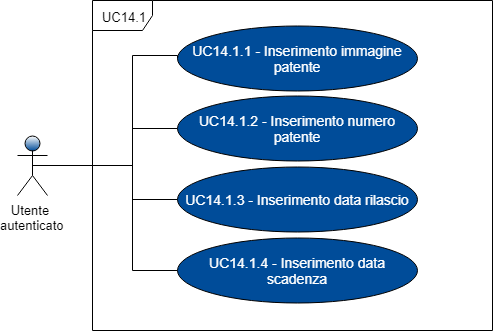
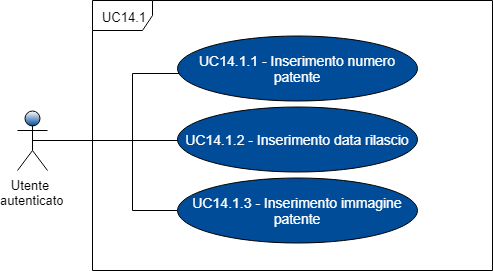
fix adr e pdq

diff --git a/RR/Esterni/Piano_di_qualifica/res/sections/specifica_dei_test.tex b/RR/Esterni/Piano_di_qualifica/res/sections/specifica_dei_test.tex
@@ -227,10 +227,10 @@ dove:
 		 \end{itemize}	&	NI	\tabularnewline
 		 \texttt{TA10.1.1}	& RFO9.1 & L'utente autenticato deve poter aggiornare la patente di guida del proprio account. All'utente viene chiesto di:
 		 \begin{itemize}
-		 	\item verificare di poter inserire l'immagine fronte e retro della patente;
 		 	\item verificare di poter inserire il numero della patente;
 		 	\item verificare di poter inserire la data di rilascio della patente;
 		 	\item verificare di poter inserire la data di scadenza della patente;
+		 	\item verificare di poter inserire l'immagine fronte e retro della patente;
 		 	\item verificare che i dati inseriti siano stati aggiornati nella schermata di gestione del profilo.
 		 \end{itemize}	&	NI	\tabularnewline
 		\texttt{TA10.1.2}	& RFO9.2.8 &	L'utente autenticato deve poter aggiornare la password del proprio account. All'utente viene chiesto di:
@@ -304,20 +304,20 @@ dove:
 		 	\item verificare che dal menu dell'applicazione si possa accedere e visualizzare la tabella dei Daily Rewards.
 		 \end{itemize}	&	NI	\tabularnewline	
 	
-	 \texttt{TA17.1}	& RFF15.1 &	L'utente autenticato deve poter ritirare il premio del giorno corrente dalla tabella Daily rewards. All'utente viene chiesto di :
+	 \texttt{TA17.1}	& RFF15.1 &	L'utente autenticato deve poter ritirare il premio del giorno corrente dalla tabella Daily rewards. \\All'utente viene chiesto di:
 		 \begin{itemize}
-		 	\item ritirare il premio del giorno dalla tabella dei premi giornalieri;
+		 	\item ritirare il premio del giorno dalla tabella dei premi giornalieri tramite l'apposito pulsante "Ritira premio";
 		 	\item verificare di non poter ritirare di nuovo il premio del giorno attuale;
 		 	\item verificare di non poter ritirare il premio dei giorni successivi o di quelli precedenti.
 		 \end{itemize}	&	NI	\tabularnewline
 
-	 \texttt{TA18}	& RFF16 &	L'utente autenticato deve poter accedere al Minigioco del garage in cui potrà visualizzare e apportare nuove modifiche ad un'auto base di partenza. All'utente viene chiesto di:
+	 \texttt{TA18}	& RFF16 &	L'utente autenticato deve poter accedere al Minigioco che consiste in un garage che dà la possibilità di effettuare modifiche ad un'auto. All'utente viene chiesto di:
 		 \begin{itemize}
 		 	\item accedere alla sezione Minigioco dal menu dell'applicazione;
 		 	\item verificare di poter visualizzare l'auto base e le sue statistiche (velocità, accelerazione, peso, maneggevolezza);
 		 	\item verificare di poter entrare nella modalità di modifica auto;
 		 	\item apportare qualche modifica;
-		 	\item verificare di poter installare o annullare le modifiche fatte.
+		 	\item verificare che le modifiche siano state effettivamente installate.
 		 \end{itemize}	&	NI	\tabularnewline
 	\texttt{TA18.1}	& RFF16.1\\ RFF16.1.1 \\ RFF16.1.2 \\ RFF16.1.3 \\ RFF16.1.4 \\ RFF16.1.5  \\RFF16.3  &	L'utente autenticato deve poter accedere al Minigioco del garage in cui potrà modificare le prestazioni dell'auto base. All'utente viene chiesto di:
 		 \begin{itemize}
@@ -330,7 +330,7 @@ dove:
 		 			\item sospensioni;
 		 			\item gomme.
 		 		\end{itemize}
-		 	\item confermare o annullare l'installazione delle modifiche.
+		 	\item confermare l'installazione della modifica.
 		 \end{itemize}	&	NI	\tabularnewline
 		 \texttt{TA18.2}	& RFF16.2\\ RFF16.2.1 \\ RFF16.2.2 \\ RFF16.2.3 \\ RFF16.2.4 \\ RFF16.2.5  \\ 	RFF16.2.6 \\ RFF16.2.7 \\RFF16.3 & L'utente autenticato deve poter accedere al Minigioco del garage in cui potrà modificare l'estetica dell'auto base. All'utente viene chiesto di:
 		 \begin{itemize}
@@ -345,9 +345,10 @@ dove:
 		 			\item cerchioni;
 		 			\item alettoni.
 		 		\end{itemize}
-		 	\item confermare o annullare l'installazione delle modifiche.
+		 	\item confermare l'installazione della modifica.
 		 \end{itemize}	&	NI	\tabularnewline
 \end{longtable}
+\newpage
 \subsection{Test di sistema}
 I test di sistema sono impiegati per garantire il corretto funzionamento delle componenti dell'intero sistema. Tali test verranno indicati nel seguente modo:\\
 	\centerline{\textbf{TS[Codice]}}
@@ -470,7 +471,7 @@ dove:
 	
 	 \texttt{TS17.1}	& RFF15.1 &	Verificare che il sistema permetta all'utente autenticato all'utente autenticato di poter ritirare il premio del giorno corrente dalla tabella Daily rewards. 	&	NI	\tabularnewline
 
-	 \texttt{TS18}	& RFF16 &	Verificare che il sistema permetta all'utente autenticato all'utente autenticato di poter accedere al Minigioco del garage in cui potrà visualizzare le statistiche e apportare nuove modifiche ad un'auto base di partenza. &	NI	\tabularnewline
+	 \texttt{TS18}	& RFF16 &	Verificare che il sistema permetta agli utenti autenticati di poter accedere al Minigioco che consiste in un garage che dà la possibilità di effettuare modifiche ad un'auto. &	NI	\tabularnewline
 	 
 	\texttt{TS18.1}	& RFF16.1\\ RFF16.1.1 \\ RFF16.1.2 \\ RFF16.1.3 \\ RFF16.1.4 \\ RFF16.1.5  \\RFF16.3  &	Verificare che il sistema permetta all'utente autenticato all'utente autenticato di poter accedere al Minigioco del garage in cui potrà modificare le prestazioni dell'auto base. 	&	NI	\tabularnewline
 	

diff --git a/RR/Esterni/Analisi_dei_requisiti/res/sections/UC/UC14-15-GestioneProfilo.tex b/RR/Esterni/Analisi_dei_requisiti/res/sections/UC/UC14-15-GestioneProfilo.tex
@@ -28,11 +28,6 @@
 	\caption{UC14 - Gestione Profilo}
 \end{figure}
 \subsubsection{UC14.1 - Inserimento patente}
-\begin{figure}[h]
-	\includegraphics[width=10cm]{res/images/UC14-Patente.png}
-	\centering
-	\caption{UC14.1 - Inserimento patente}
-\end{figure}
 \begin{itemize}
 	\item \textbf{Attori Primari}: utente autenticato;
 	\item \textbf{Descrizione}: l'utente può aggiungere la propria patente al profilo;
@@ -46,16 +41,13 @@
 	\item \textbf{Precondizione}: l'utente ha inserito correttamente tutti i campi necessari;
 	\item \textbf{Postcondizione}: la patente viene aggiunta e visualizzata nella pagina \textit{Gestione Profilo}.
 \end{itemize}
+\begin{figure}[h]
+	\includegraphics[width=10cm]{res/images/UC14-Patente.png}
+	\centering
+	\caption{UC14.1 - Inserimento patente}
+\end{figure}
 \newpage
-\subsubsection{UC14.1.1 - Inserimento immagine patente}
-\begin{itemize}
-	\item \textbf{Attori Primari}: utente autenticato;
-	\item \textbf{Descrizione}: al fine di portare a termine il processo di inserimento della patente, l'utente deve inserire l'immagine fronte e retro della propria patente, campo ritenuto obbligatorio; 
-	\item \textbf{Scenario principale}: l'utente preme il pulsante relativo all'inserimento dell'immagine della patente;	
-	\item \textbf{Precondizione}: l'applicazione ha reso disponibile il bottone per l'inserimento dell'immagine della patente;
-	\item \textbf{Postcondizione}: l'utente ha inserito correttamente l'immagine della patente.
-\end{itemize}
-\subsubsection{UC14.1.2 - Inserimento numero patente}
+\subsubsection{UC14.1.1 - Inserimento numero patente}
 \begin{itemize}
 	\item \textbf{Attori Primari}: utente autenticato;
 	\item \textbf{Descrizione}: al fine di portare a termine il processo di inserimento della patente, l'utente deve inserire il numero della patente, campo ritenuto obbligatorio; 
@@ -63,21 +55,21 @@
 	\item \textbf{Precondizione}: l'applicazione ha reso disponibile il campo per l'inserimento del numero della patente;
 	\item \textbf{Postcondizione}: l'utente ha compilato il campo con il numero della patente.
 \end{itemize}
-\subsubsection{UC14.1.3 - Inserimento data rilascio}
+\subsubsection{UC14.1.2 - Inserimento data di rilascio e di scadenza}
 \begin{itemize}
 	\item \textbf{Attori Primari}: utente autenticato;
-	\item \textbf{Descrizione}: al fine di portare a termine il processo di inserimento della patente, l'utente deve inserire la data di rilascio, campo ritenuto obbligatorio; 
-	\item \textbf{Scenario principale}: l'utente compila il campo relativo alla data di rilascio della patente;	
-	\item \textbf{Precondizione}: l'applicazione ha reso disponibile il campo per l'inserimento della data di rilascio della patente;
-	\item \textbf{Postcondizione}: l'utente ha compilato il campo con la data di rilascio della patente.
+	\item \textbf{Descrizione}: al fine di portare a termine il processo di inserimento della patente, l'utente deve inserire la data di rilascio e la data di scadenza, campi ritenuti obbligatori; 
+	\item \textbf{Scenario principale}: l'utente compila i campi relativi alla data di rilascio e alla data di scadenza della patente;	
+	\item \textbf{Precondizione}: l'applicazione ha reso disponibile i campi per l'inserimento della data di rilascio e di scadenza della patente;
+	\item \textbf{Postcondizione}: l'utente ha compilato i campi con la data di rilascio e di scadenza della patente.
 \end{itemize}
-\subsubsection{UC14.1.4 - Inserimento data scadenza}
+\subsubsection{UC14.1.3 - Inserimento immagine fronte e retro della patente}
 \begin{itemize}
 	\item \textbf{Attori Primari}: utente autenticato;
-	\item \textbf{Descrizione}: al fine di portare a termine il processo di inserimento della patente, l'utente deve inserire la data di scadenza, campo ritenuto obbligatorio; 
-	\item \textbf{Scenario principale}: l'utente compila il campo relativo alla data di scadenza della patente;	
-	\item \textbf{Precondizione}: l'applicazione ha reso disponibile il campo per l'inserimento della data di scadenza della patente;
-	\item \textbf{Postcondizione}: l'utente ha compilato il campo con la data di scadenza della patente.
+	\item \textbf{Descrizione}: al fine di portare a termine il processo di inserimento della patente, l'utente deve inserire l'immagine fronte e retro della propria patente, campo ritenuto obbligatorio; 
+	\item \textbf{Scenario principale}: l'utente preme il pulsante relativo all'inserimento dell'immagine della patente;	
+	\item \textbf{Precondizione}: l'applicazione ha reso disponibile il bottone per l'inserimento dell'immagine della patente;
+	\item \textbf{Postcondizione}: l'utente ha inserito correttamente l'immagine della patente.
 \end{itemize}
 \subsubsection{UC14.2 - Modifica dati account}
 \begin{itemize}

diff --git a/RR/Esterni/Analisi_dei_requisiti/res/sections/UC/UC24-25DailyReward.tex b/RR/Esterni/Analisi_dei_requisiti/res/sections/UC/UC24-25DailyReward.tex
@@ -1,18 +1,9 @@
-\begin{figure}[h]
-	\includegraphics[width=13.2cm]{res/images/UC24Daily.png}
-	\centering
-	\caption{UC24 - Daily Rewards}
-\end{figure}
+
 \subsubsection{UC24 - Daily rewards}
 \begin{itemize}
 	\item \textbf{Attori Primari}: utente autenticato;
-	\item \textbf{Descrizione}: l'applicazione rende disponibile una tabella che illustra i premi giornalieri del mese corrente. La tabella è organizzata sotto forma di calendario, in cui associa ad ogni giorno del mese corrente un premio;
-	ogni casella si trova in uno dei seguenti stati:
-	\begin{itemize}
-		\item 1: il pulsante è disattivato perché il premio non è mai stato ritirato e il giorno a cui è associato non corrisponde con la data corrente;
-		\item 2: il pulsante è attivo perché il premio non è mai stato ritirato e il giorno a cui è associato corrisponde con la data corrente;
-		\item 3: il pulsante è disattivato e segnalato come già ritirato. 
-	\end{itemize} 
+	\item \textbf{Descrizione}: l'applicazione rende disponibile una tabella che illustra i premi giornalieri del mese corrente. La tabella è organizzata sotto forma di calendario, in cui associa ad ogni giorno del mese corrente un premio.
+	Sotto alla tabella è presente un bottone "Ritira premio" che si disattiva dopo il primo utilizzo.\\
 	Inoltre, i premi ottenibili possono includere:
 	\begin{itemize}
 		\item sconti su e-commerce o buoni spesa;
@@ -31,12 +22,16 @@
 	\item \textbf{Precondizione}: l'utente ha premuto l'icona Daily Rewards;
 	\item \textbf{Postcondizione}: l'utente ha visualizzato i premi disponibili per il mese corrente e può aver ritirato il premio del giorno corrente se non lo ha precedentemente fatto [UC25]. 
 \end{itemize} 
-
+\begin{figure}[h]
+	\includegraphics[width=13.2cm]{res/images/UC24Daily.png}
+	\centering
+	\caption{UC24 - Daily Rewards}
+\end{figure}
 \subsubsection{UC25 - Ritiro del daily rewards}
 \begin{itemize}
 	\item \textbf{Attori Primari}: utente autenticato;
-	\item \textbf{Descrizione}: l'applicazione rende disponibile dei premi giornalieri, illustrati e ritirabili tramite la tabella Daily Rewards;
-	\item \textbf{Scenario principale}: l'utente sta visualizzando la tabella dei premi giornalieri e preme la casella del premio del giorno corrente per ritirarlo;
-	\item \textbf{Precondizione}: l'utente non ha ancora ritirato il premio del giorno corrente e apre la tabella dei premio da cui preme la casella del giorno corrente per ritirare il premio;
-	\item \textbf{Postcondizione}: l'utente ha ricevuto il premio del giorno corrente e l'applicazione disabilita il relativo pulsante, segnalando il premio come ritirato. 
+	\item \textbf{Descrizione}: l'applicazione rende disponibile dei premi giornalieri, illustrati e ritirabili tramite l'apposito pulsante di raccoglimento premi (una sola volta);
+	\item \textbf{Scenario principale}: l'utente sta visualizzando la tabella dei premi giornalieri e preme il pulsante "Ritira premio" per ritirarlo;
+	\item \textbf{Precondizione}: l'utente apre la tabella dei premi e preme il pulsante "Ritira premio" per ritirare il premio;
+	\item \textbf{Postcondizione}: l'utente riceve il premio se non lo ha già ritirato precedentemente e l'applicazione disabilita il relativo pulsante mostrando, tramite un pop-up, il relativo premio.  
 \end{itemize} 

diff --git a/RR/Esterni/Analisi_dei_requisiti/res/sections/Requisiti/requisiti_funzionali.tex b/RR/Esterni/Analisi_dei_requisiti/res/sections/Requisiti/requisiti_funzionali.tex
@@ -63,10 +63,9 @@
 	RFD8	&	Desiderabile	&	L'utente può visualizzare uno storico delle sue prenotazioni concluse.		&	Interno \\ UC13	\tabularnewline
 	RFO9	&	Obbligatorio	&	L'utente può visualizzare il proprio profilo utente.	&	Capitolato \\ UC14	\tabularnewline
 	RFO9.1	&	Obbligatorio	&	L'utente può inserire la propria patente di guida.	&	Capitolato \\ UC14.1	\tabularnewline
-	RFO9.1.1	&	Obbligatorio	&	L'utente deve inserire l'immagine della patente fronte e retro.	&	Capitolato \\ UC14.1.1	\tabularnewline
-	RFO9.1.2	&	Obbligatorio	&	L'utente deve inserire il numero della patente.	&	Capitolato \\ UC14.1.2	\tabularnewline
-	RFO9.1.3	&	Obbligatorio	&	L'utente deve inserire la data di rilascio della patente.	&	Capitolato \\ UC14.1.3	\tabularnewline
-	RFO9.1.4	&	Obbligatorio	&	L'utente deve inserire la data di scadenza della patente.	&	Capitolato \\ UC14.1.4	\tabularnewline
+	RFO9.1.1	&	Obbligatorio	&	L'utente deve inserire l'immagine della patente fronte e retro.	&	Capitolato \\ UC14.1.3	\tabularnewline
+	RFO9.1.2	&	Obbligatorio	&	L'utente deve inserire il numero della patente.	&	Capitolato \\ UC14.1.1	\tabularnewline
+	RFO9.1.3	&	Obbligatorio	&	L'utente deve inserire la data di rilascio e di scadenza della patente.	&	Capitolato \\ UC14.1.2	\tabularnewline
 	RFO9.2	&	Obbligatorio	&	L'utente può modificare i dati del profilo	&	Capitolato \\ UC14.2	\tabularnewline
 	RFO9.2.1	&	Obbligatorio	&	L'utente può modificare il nome.	&	Interno \\ UC14.2.1	\tabularnewline
 	RFO9.2.2	&	Obbligatorio	&	L'utente può modificare il cognome.	&	Interno \\ UC14.2.2	\tabularnewline
@@ -93,7 +92,7 @@
 	RFF15 & Facoltativo & L'utente visualizza una tabella coi premi che può ricevere nell'arco di un mese. & UC24 \tabularnewline
 	RFF15.1 & Facoltativo & L'utente visualizza la tabella coi premi e può prendere solo quello del giorno corrente. & UC25
 	\tabularnewline
-	RFF16 & Facoltativo & All'utente è reso disponibile un Minigioco composto da un garage dove è possibile fare modifiche ad un'auto base di partenza. & UC26 
+	RFF16 & Facoltativo & Agli utenti autenticati è reso disponibile un Minigioco che consiste in un garage che dà la possibilità di effettuare modifiche ad un'auto. & UC26 
 	\tabularnewline
 	RFF16.1 & Facoltativo & L'utente può modificare l'auto sulla base delle prestazioni. & UC26.1
 	\tabularnewline
@@ -122,8 +121,6 @@
 	RFF16.2.6 & Facoltativo & L'utente può modificare i cerchioni dell'auto di partenza. & UC26.2.6
 	\tabularnewline
 	RFF16.2.7 & Facoltativo & L'utente può aggiungere l'alettone all'auto di partenza. & UC26.2.7
-	\tabularnewline
-	RFF16.3 & Facoltativo & L'utente può annullare tutte le modifiche apportate all'auto. & UC27
 	\tabularnewline
 	RFF17	&	Facoltativo	&	Fornire un insieme di social activity per creare una coesione degli utenti che usano l'applicazione &	Interno\\
 	UC23\\ 	\tabularnewline

diff --git a/RR/Esterni/Analisi_dei_requisiti/res/sections/UC/UC26-27GarageVeicolo.tex b/RR/Esterni/Analisi_dei_requisiti/res/sections/UC/UC26-27GarageVeicolo.tex
@@ -1,9 +1,4 @@
 \subsubsection{UC26 - Garage veicolo}
-\begin{figure}[h]
-	\includegraphics[width=13cm]{res/images/UC26Garage.png}
-	\centering
-	\caption{Diagramma del caso d'uso UC26 con relative estensioni (UC27)}
-\end{figure}
 \begin{itemize}
 	\item \textbf{Attori Primari}: utente autenticato;
 	\item \textbf{Descrizione}: agli utenti autenticati è reso disponibile un Minigioco che consiste in un garage che dà la possibilità di effettuare modifiche ad un'auto sfruttando i premi ottenuti da:
@@ -27,11 +22,7 @@
 		\item Prestazione [UC26.1];
 		\item Estetica [UC26.2].
 	\end{itemize}
-	e successivamente se le modifiche apportate vanno bene all'utente, può decidere di installarle definitivamente;
-	\item \textbf{Estensioni}:
-	\begin{itemize}
-		\item annulla tutte le modifiche [UC27].
-	\end{itemize}
+	ogni modifica apportata viene automaticamente installata sull'auto.
 	\item \textbf{Precondizione}: l'utente autenticato ha selezionato la voce \textit{Garage} dal menu dell'applicazione;
 	\item \textbf{Post-condizione}: l'utente autenticato ha visualizzato la sua auto e installato le modifiche desiderate. 
 \end{itemize}
@@ -40,6 +31,7 @@
 	\centering
 	\caption{UC26 - Garage veicolo}
 \end{figure}
+\newpage
 \subsubsection{UC26.1 - Prestazione}
 \begin{figure}[h]
 	\includegraphics[width=9.5cm]{res/images/UC26-1Prestazioni.png}
@@ -58,7 +50,7 @@
 		\item gomme [UC26.1.5].
 	\end{itemize}
 	\item \textbf{Precondizione}: l'utente ha intenzione di modificare la parte prestazionale della sua auto;
-	\item \textbf{Postcondizione}: l'utente ha modificato gli elementi prestazionali della sua auto e potrà confermare l'installazione di tali modifiche.
+	\item \textbf{Postcondizione}: l'utente ha modificato gli elementi prestazionali della sua auto.
 \end{itemize}
 \subsubsection{UC26.1.1 - Motore}
 \begin{itemize}
@@ -126,7 +118,7 @@
 		\item alettoni [UC26.2.7].
 	\end{itemize}
 	\item \textbf{Precondizione}: l'utente ha intenzione di modificare la parte estetica della sua auto;
-	\item \textbf{Postcondizione}: l'utente ha modificato gli elementi estetici della sua auto e potrà confermare l'installazione di tali modifiche.
+	\item \textbf{Postcondizione}: l'utente ha modificato gli elementi estetici della sua auto.
 \end{itemize}
 
 \subsubsection{UC26.2.1 - Colore}

diff --git a/RR/Esterni/Analisi_dei_requisiti/res/sections/Tracciamento/tracciamento_fonti_requisiti.tex b/RR/Esterni/Analisi_dei_requisiti/res/sections/Tracciamento/tracciamento_fonti_requisiti.tex
@@ -39,7 +39,6 @@ RFO9.1 \\
 RFO9.1.1 \\
 RFO9.1.2 \\
 RFO9.1.3 \\
-RFO9.1.4 \\
 RFO9.2 \\
 RQO1 \\
 RQO2 \\
@@ -133,10 +132,9 @@ UC12.7 & RFO7.7 \tabularnewline
 UC13 & RFD8 \tabularnewline
 UC14 & RFO9 \tabularnewline
 UC14.1 & RFO9.1 \tabularnewline
-UC14.1.1 & RFO9.1.1 \tabularnewline
-UC14.1.2 & RFO9.1.2 \tabularnewline
-UC14.1.3 & RFO9.1.3 \tabularnewline
-UC14.1.4 & RFO9.1.4 \tabularnewline
+UC14.1.3 & RFO9.1.1 \tabularnewline
+UC14.1.1 & RFO9.1.2 \tabularnewline
+UC14.1.2 & RFO9.1.3 \tabularnewline
 UC14.2 & RFO9.2 \tabularnewline
 UC14.2.1 & RFO9.2.1 \tabularnewline
 UC14.2.2 & RFO9.2.2 \tabularnewline
@@ -175,7 +173,6 @@ UC26.2.4 & RFF16.2.4 \tabularnewline
 UC26.2.5 & RFF16.2.5 \tabularnewline
 UC26.2.6 & RFF16.2.6 \tabularnewline
 UC26.2.7 & RFF16.2.7 \tabularnewline
-UC27 & RFF16.3 \tabularnewline
 UC23 & RFF17 \tabularnewline
 UC20 & RFF18 \tabularnewline
 UC18 & RFF19 \tabularnewline

diff --git a/RR/Esterni/Analisi_dei_requisiti/res/sections/Tracciamento/tracciamento_requisiti_fonti.tex b/RR/Esterni/Analisi_dei_requisiti/res/sections/Tracciamento/tracciamento_requisiti_fonti.tex
@@ -62,10 +62,9 @@ RFO7.7	&	Capitolato\\ UC12.7	\tabularnewline
 RFD8 &	Interno \\ UC13	\tabularnewline
 RFO9	&	Capitolato \\ UC14	\tabularnewline
 RFO9.1	&	Capitolato \\ UC14.1	\tabularnewline
-RFO9.1.1	&	Capitolato \\ UC14.1.1	\tabularnewline
-RFO9.1.2	&	Capitolato \\ UC14.1.2	\tabularnewline
-RFO9.1.3	&	Capitolato \\ UC14.1.3	\tabularnewline
-RFO9.1.4	&	Capitolato \\ UC14.1.4	\tabularnewline
+RFO9.1.1	&	Capitolato \\ UC14.1.3	\tabularnewline
+RFO9.1.2	&	Capitolato \\ UC14.1.1	\tabularnewline
+RFO9.1.3	&	Capitolato \\ UC14.1.2	\tabularnewline
 RFO9.2	&	Capitolato \\ UC14.2	\tabularnewline
 RFO9.2.1	&	Interno \\ UC14.2.1	\tabularnewline
 RFO9.2.2	&	Interno \\ UC14.2.2	\tabularnewline
@@ -121,8 +120,6 @@ RFF16.2.5 & UC26.2.5
 RFF16.2.6 & UC26.2.6
 \tabularnewline
 RFF16.2.7 & UC26.2.7
-\tabularnewline
-RFF16.3 & UC27
 \tabularnewline
 RFF17 &	Interno\\
 UC23\\ 	\tabularnewline
